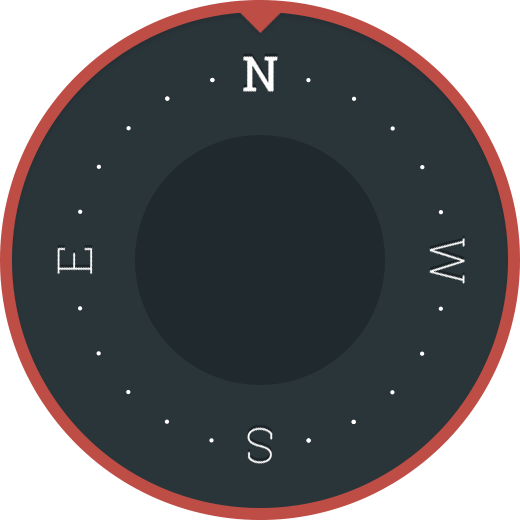
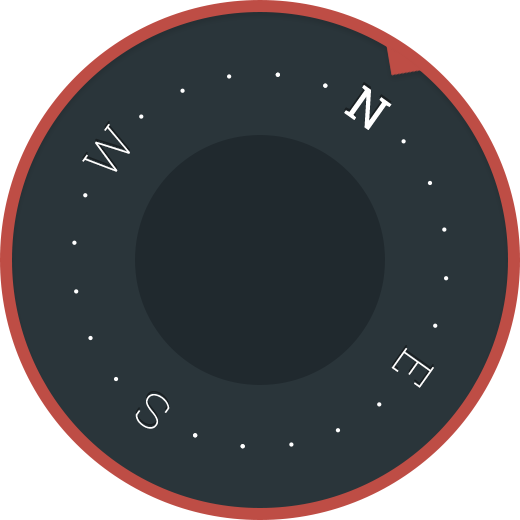
add function for  compass

diff --git a/src/index.css b/src/index.css
@@ -1,0 +1,76 @@
+@font-face {
+	font-family: 'RobotoSlab Regular';
+	src: url('./fonts/RobotoSlab-Regular.ttf') format('truetype');
+	font-weight: normal;
+	font-style: normal;
+}
+
+@font-face {
+	font-family: 'RobotoSlab Thin';
+	src: url('./fonts/RobotoSlab-Thin.ttf') format('truetype');
+	font-weight: 100;
+	font-style: normal;
+}
+
+body {
+	margin: 0;
+	padding: 0;
+}
+
+.direction-name {
+	font-family: 'RobotoSlab Regular', 'Times New Roman', serif;
+	font-size: 48px;
+	line-height: 48px;
+	font-weight: normal;
+}
+
+.text-degrees {
+	font-family: 'RobotoSlab Thin', 'Times New Roman', serif;
+	font-size: 40px;
+	line-height: 48px;
+	font-weight: 100;
+}
+
+.text-degrees::after {
+	content: "\b0";
+}
+
+.font-color {
+	color: #fff;
+}
+
+.compass {
+	position: relative;
+	display: flex;
+	justify-content: center;
+	align-items: center;
+	width: 100vw;
+	height: 100vh;
+	background: #20292e;
+}
+
+.compass-body {
+	display: block;
+	width: 520px;
+	height: 520px;
+	background: url('./images/disc.png') no-repeat;
+	background-size: contain;
+	background-position: center center;
+}
+
+.compass-arrow {
+	position: absolute;
+	display: flex;
+	flex-direction: column;
+	justify-content: center;
+	align-items: center;
+	width: 250px;
+	height: 250px;
+	background: url('./images/center.png') no-repeat;
+	background-position: center center;
+}
+
+.position-degrees {
+	position: relative;
+	left: 8px;
+}

diff --git a/src/index.js b/src/index.js
@@ -1,0 +1,42 @@
+let directionName = document.querySelector('.direction-name');
+let getDegrees = document.querySelector('.text-degrees');
+let getCompassCoorination = document.querySelector('.compass-body');
+
+function updateDirectionName (stringDirection) {
+	directionName.innerHTML = stringDirection;
+}
+
+function updateDegreesText (degree) {
+	getDegrees.innerHTML = Math.round(degree);
+}
+
+
+function getDirectionName (degree) {
+
+	if (degree >= 337.5 && degree <= 45) {
+		updateDirectionName('N');
+		updateDegreesText(degree);
+	}
+	else if (degree > 45 && degree <= 135) {
+		updateDirectionName('E');
+		updateDegreesText(degree);
+	}
+	else if (degree > 225 && degree <= 315) {
+		updateDirectionName('S');
+		updateDegreesText(degree);
+	}
+	else if (degree > 315 && degree < 337.5) {
+		updateDirectionName('W');
+		updateDegreesText(degree);
+	}
+	else {
+		updateDirectionName('N');
+		updateDegreesText(degree);
+	}
+}
+
+window.addEventListener('deviceorientation', function (event) {
+	getCompassCoorination.style.transform = `rotate(${event.alpha}deg)`;
+
+	getDirectionName(event.alpha);
+}, false);

diff --git a/src/index.html b/src/index.html
@@ -39,9 +39,17 @@
 	<meta name="msapplication-square150x150logo" content="images/icons/icon270.png" />
 	<meta name="msapplication-wide310x150logo" content="images/wicons/icon270.png" />
 	<meta name="msapplication-square310x310logo" content="images/icons/icon558.png" />
-
+	<link rel="stylesheet" href="./index.css">
 </head>
 <body>
-    
+    <div class="compass">
+		<div class="compass-body">
+		</div>
+		<div class="compass-arrow">
+			<span class="direction-name font-color">W</span>
+			<span class="text-degrees font-color position-degrees">90</span>
+		</div>
+	</div>
+	<script src="./index.js"></script>
 </body>
 </html>
